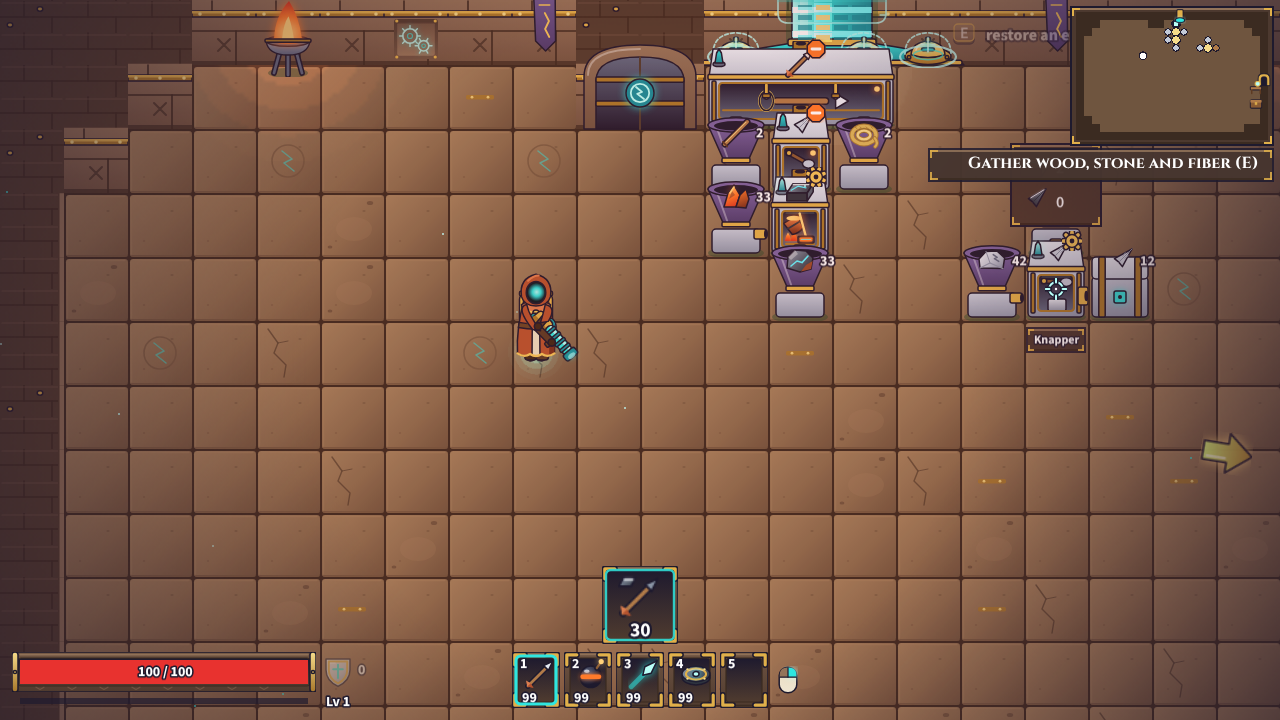
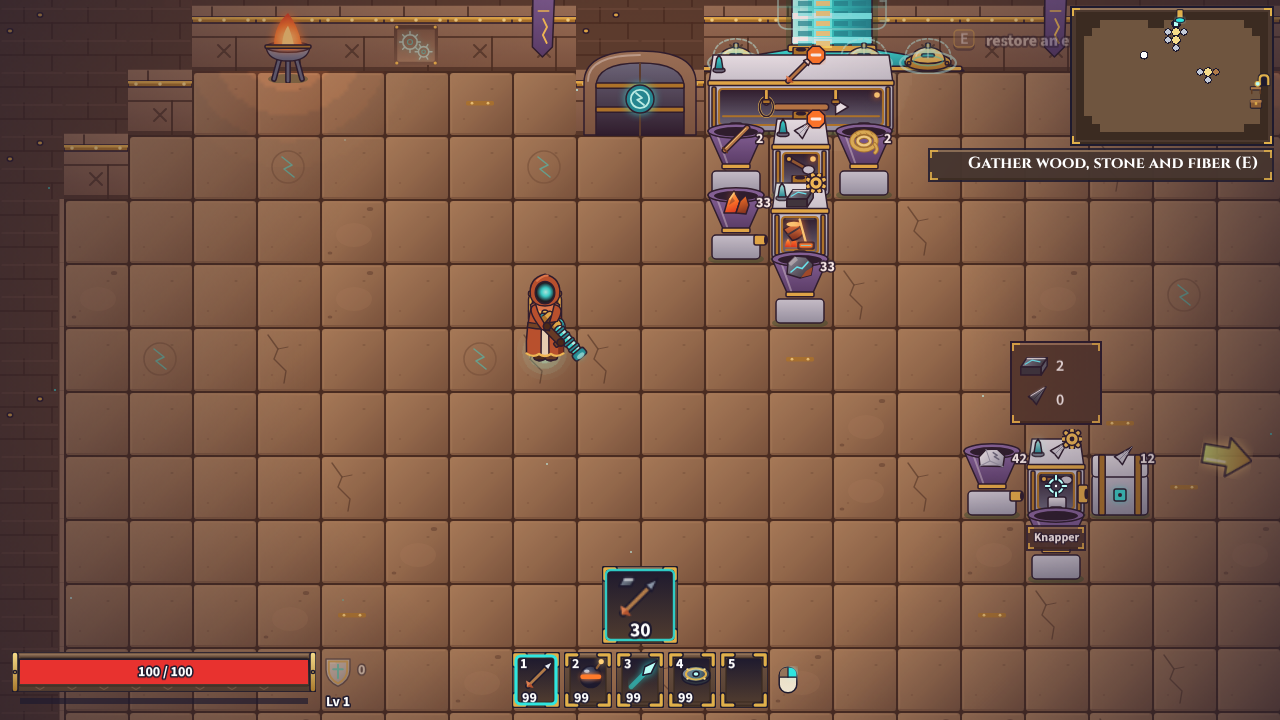
062: the mixed line's shot clear of its hover readout
Claude-Session: https://claude.ai/code/session_01SBmmtR6FEqPnQJfSseS96o

diff --git a/tests/e2e/materialTiersShots.spec.ts b/tests/e2e/materialTiersShots.spec.ts
@@ -31,25 +31,25 @@ test.describe('review screenshots (062)', () => {
     await quietScreen(page);
     await page.screenshot({ path: `${SHOTS}/01-smelter-arrow-line.png` });
 
-    // A mixed line: a knapper fed stone from behind and ley-steel from its side, out into a crate. It takes turns,
+    // A mixed line: a knapper fed stone from behind and ley-steel from below, out into a crate. It takes turns,
     // so both arrowheads come out; the shot waits for it to be working its steel set.
     const knapper = await page.evaluate(() => {
       const g = window.__GAME__;
       const h = window.__helpers;
       if (!g || !h) throw new Error('no game');
-      for (const [pieceId, tx, ty, facing] of [['hopper', 15, 4, 'right'], ['knapper', 16, 4, 'right'], ['crate', 17, 4, 'right'], ['hopper', 16, 3, 'down']] as const) g.step(1, { place: { pieceId, tx, ty, facing } });
+      for (const [pieceId, tx, ty, facing] of [['hopper', 15, 7, 'right'], ['knapper', 16, 7, 'right'], ['crate', 17, 7, 'right'], ['hopper', 16, 8, 'up']] as const) g.step(1, { place: { pieceId, tx, ty, facing } });
       let s = g.step(1);
       const at = (tx: number, ty: number) => s.foundry.pieces.find((p) => p.tx === tx && p.ty === ty);
       // The kit carries ley-iron and cinderite, not ley-steel (062): smelted by hand first.
       for (let i = 0; i < 10; i++) g.craft('ley-steel');
-      h.walkTo(14.2 * 32, 4.5 * 32);
-      s = g.step(1, { deposit: { id: at(15, 4)?.id ?? -1, itemId: 'stone', amount: 'half' } });
-      h.walkTo(15.2 * 32, 3.5 * 32);
-      s = g.step(1, { deposit: { id: at(16, 3)?.id ?? -1, itemId: 'ley-steel', amount: 'half' } });
+      h.walkTo(14.2 * 32, 7.5 * 32);
+      s = g.step(1, { deposit: { id: at(15, 7)?.id ?? -1, itemId: 'stone', amount: 'half' } });
+      h.walkTo(15.2 * 32, 8.5 * 32);
+      s = g.step(1, { deposit: { id: at(16, 8)?.id ?? -1, itemId: 'ley-steel', amount: 'half' } });
       h.walkTo(8.5 * 32, 5.5 * 32);
       const made = new Set<string>();
       const steelNow = (): boolean => {
-        const k = at(16, 4);
+        const k = at(16, 7);
         return k?.kind === 'machine' && k.made === 'steel-arrowhead' && k.crafting;
       };
       for (let t = 0; t < 900 && !(made.size === 2 && steelNow()); t++) {
@@ -57,7 +57,7 @@ test.describe('review screenshots (062)', () => {
         for (const m of s.events.made) if (m.pieceId === 'knapper') made.add(m.itemId);
       }
       if (made.size !== 2) throw new Error(`the knapper made ${[...made].join(', ')}`);
-      const k = at(16, 4);
+      const k = at(16, 7);
       return { x: ((k?.tx ?? 0) + 0.5) * 32, y: ((k?.ty ?? 0) + 0.5) * 32 };
     });
     await cameraSettled(page);
